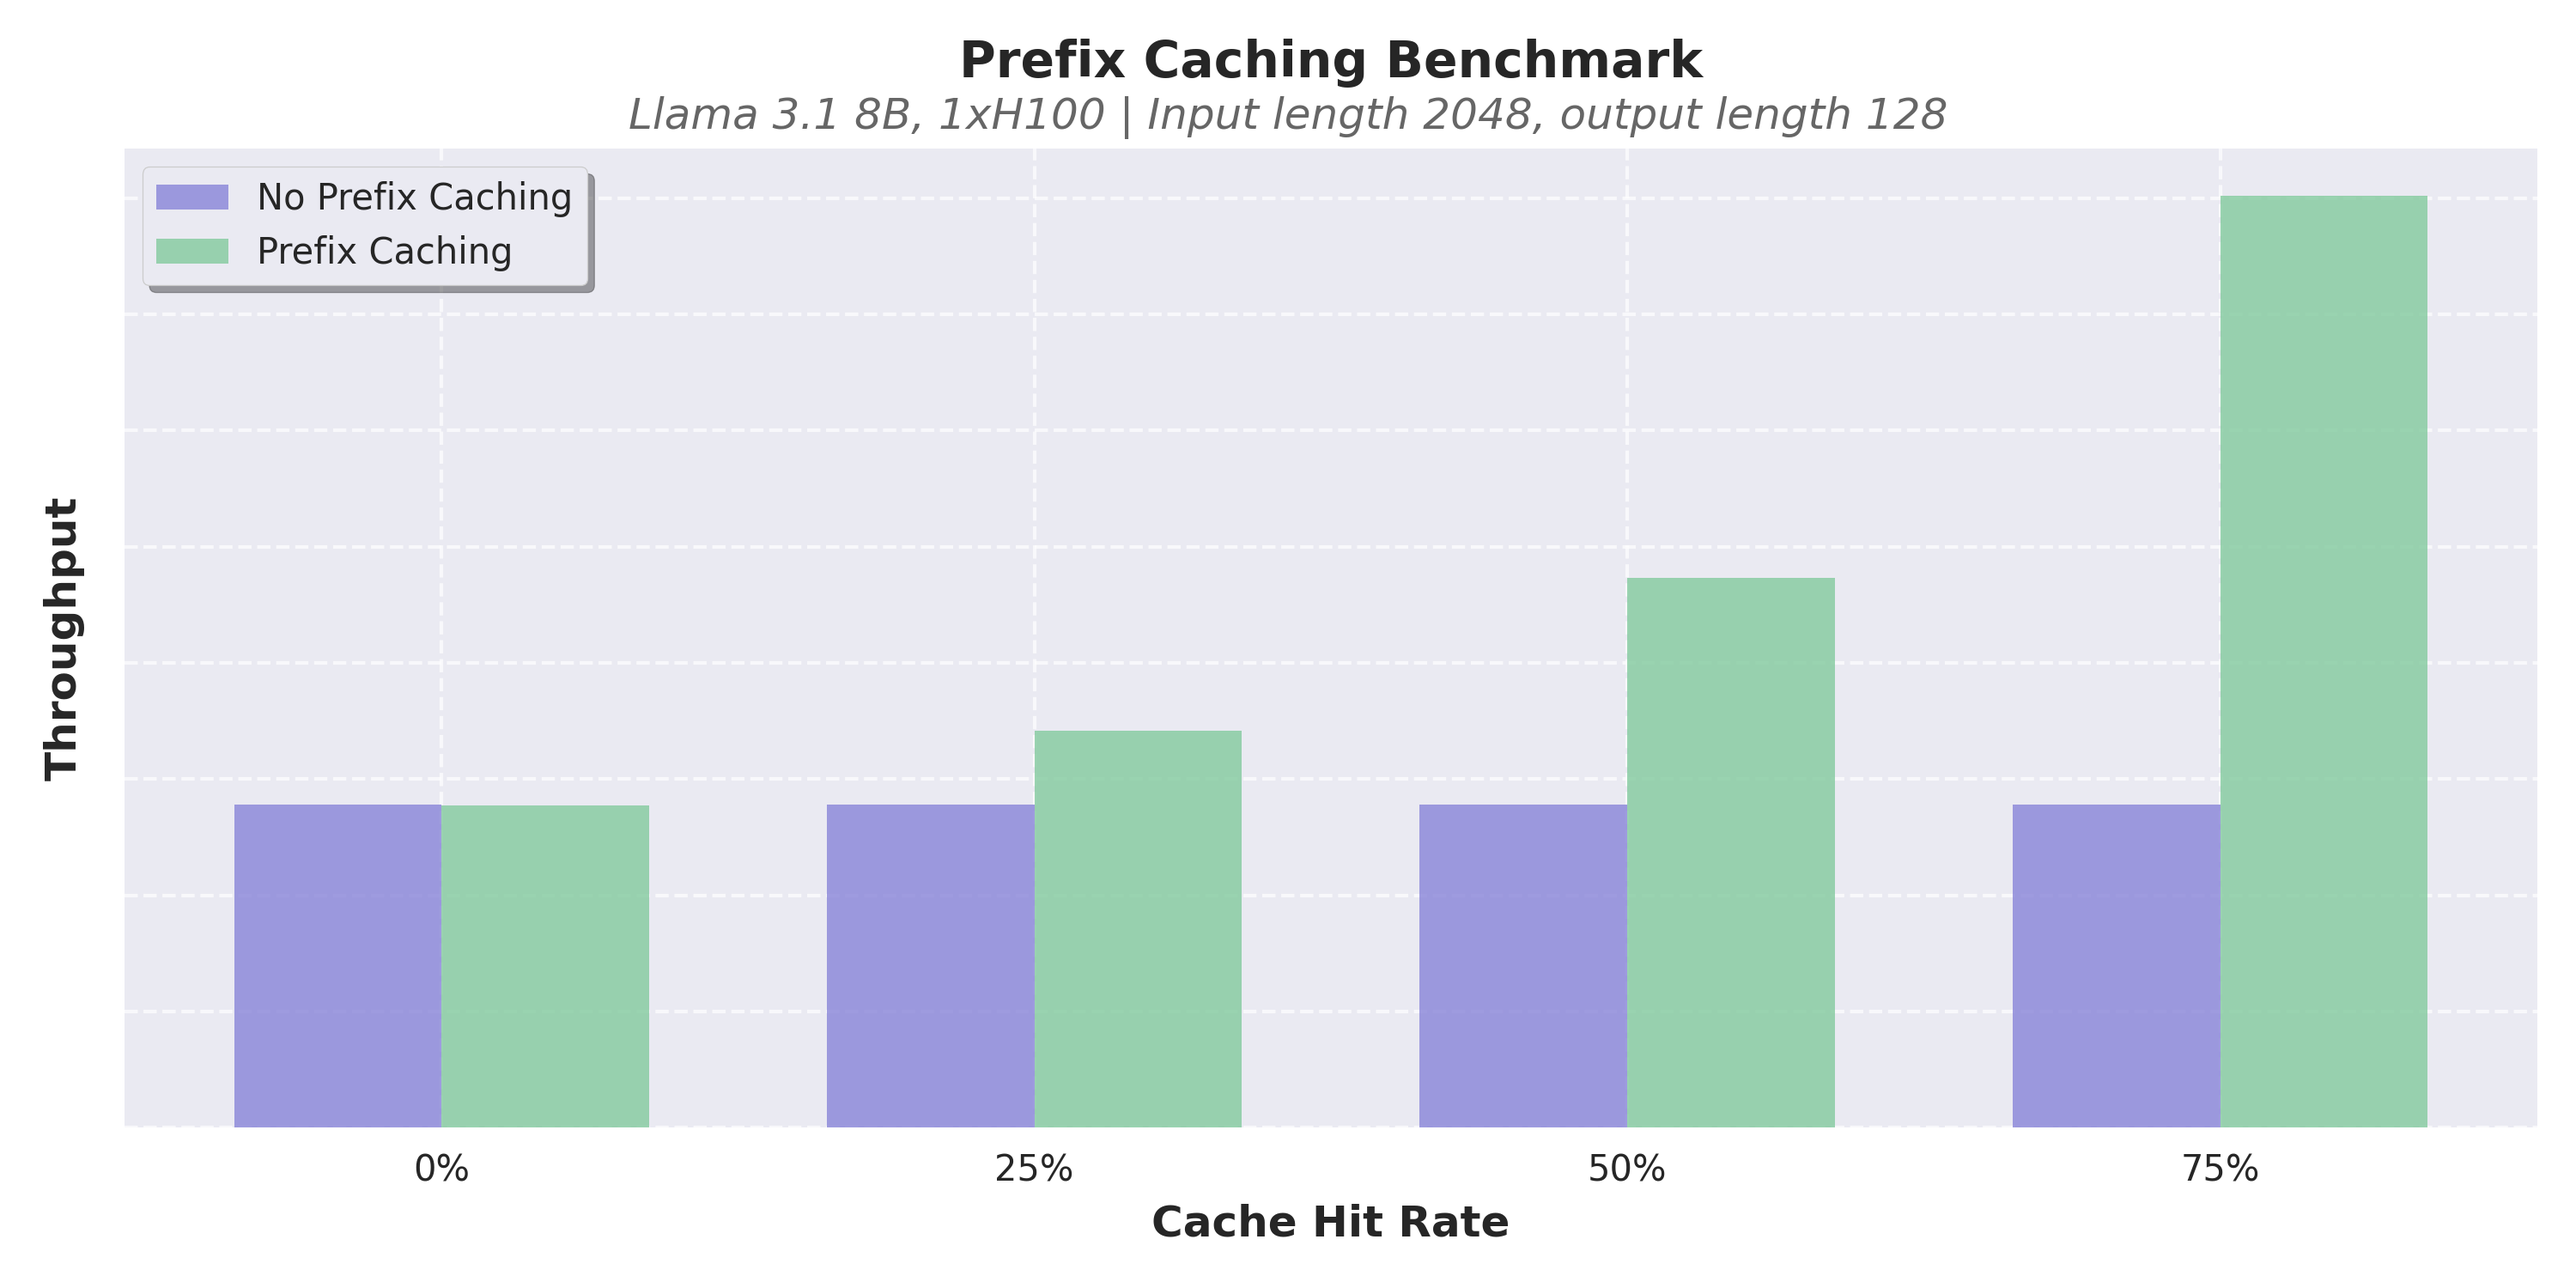
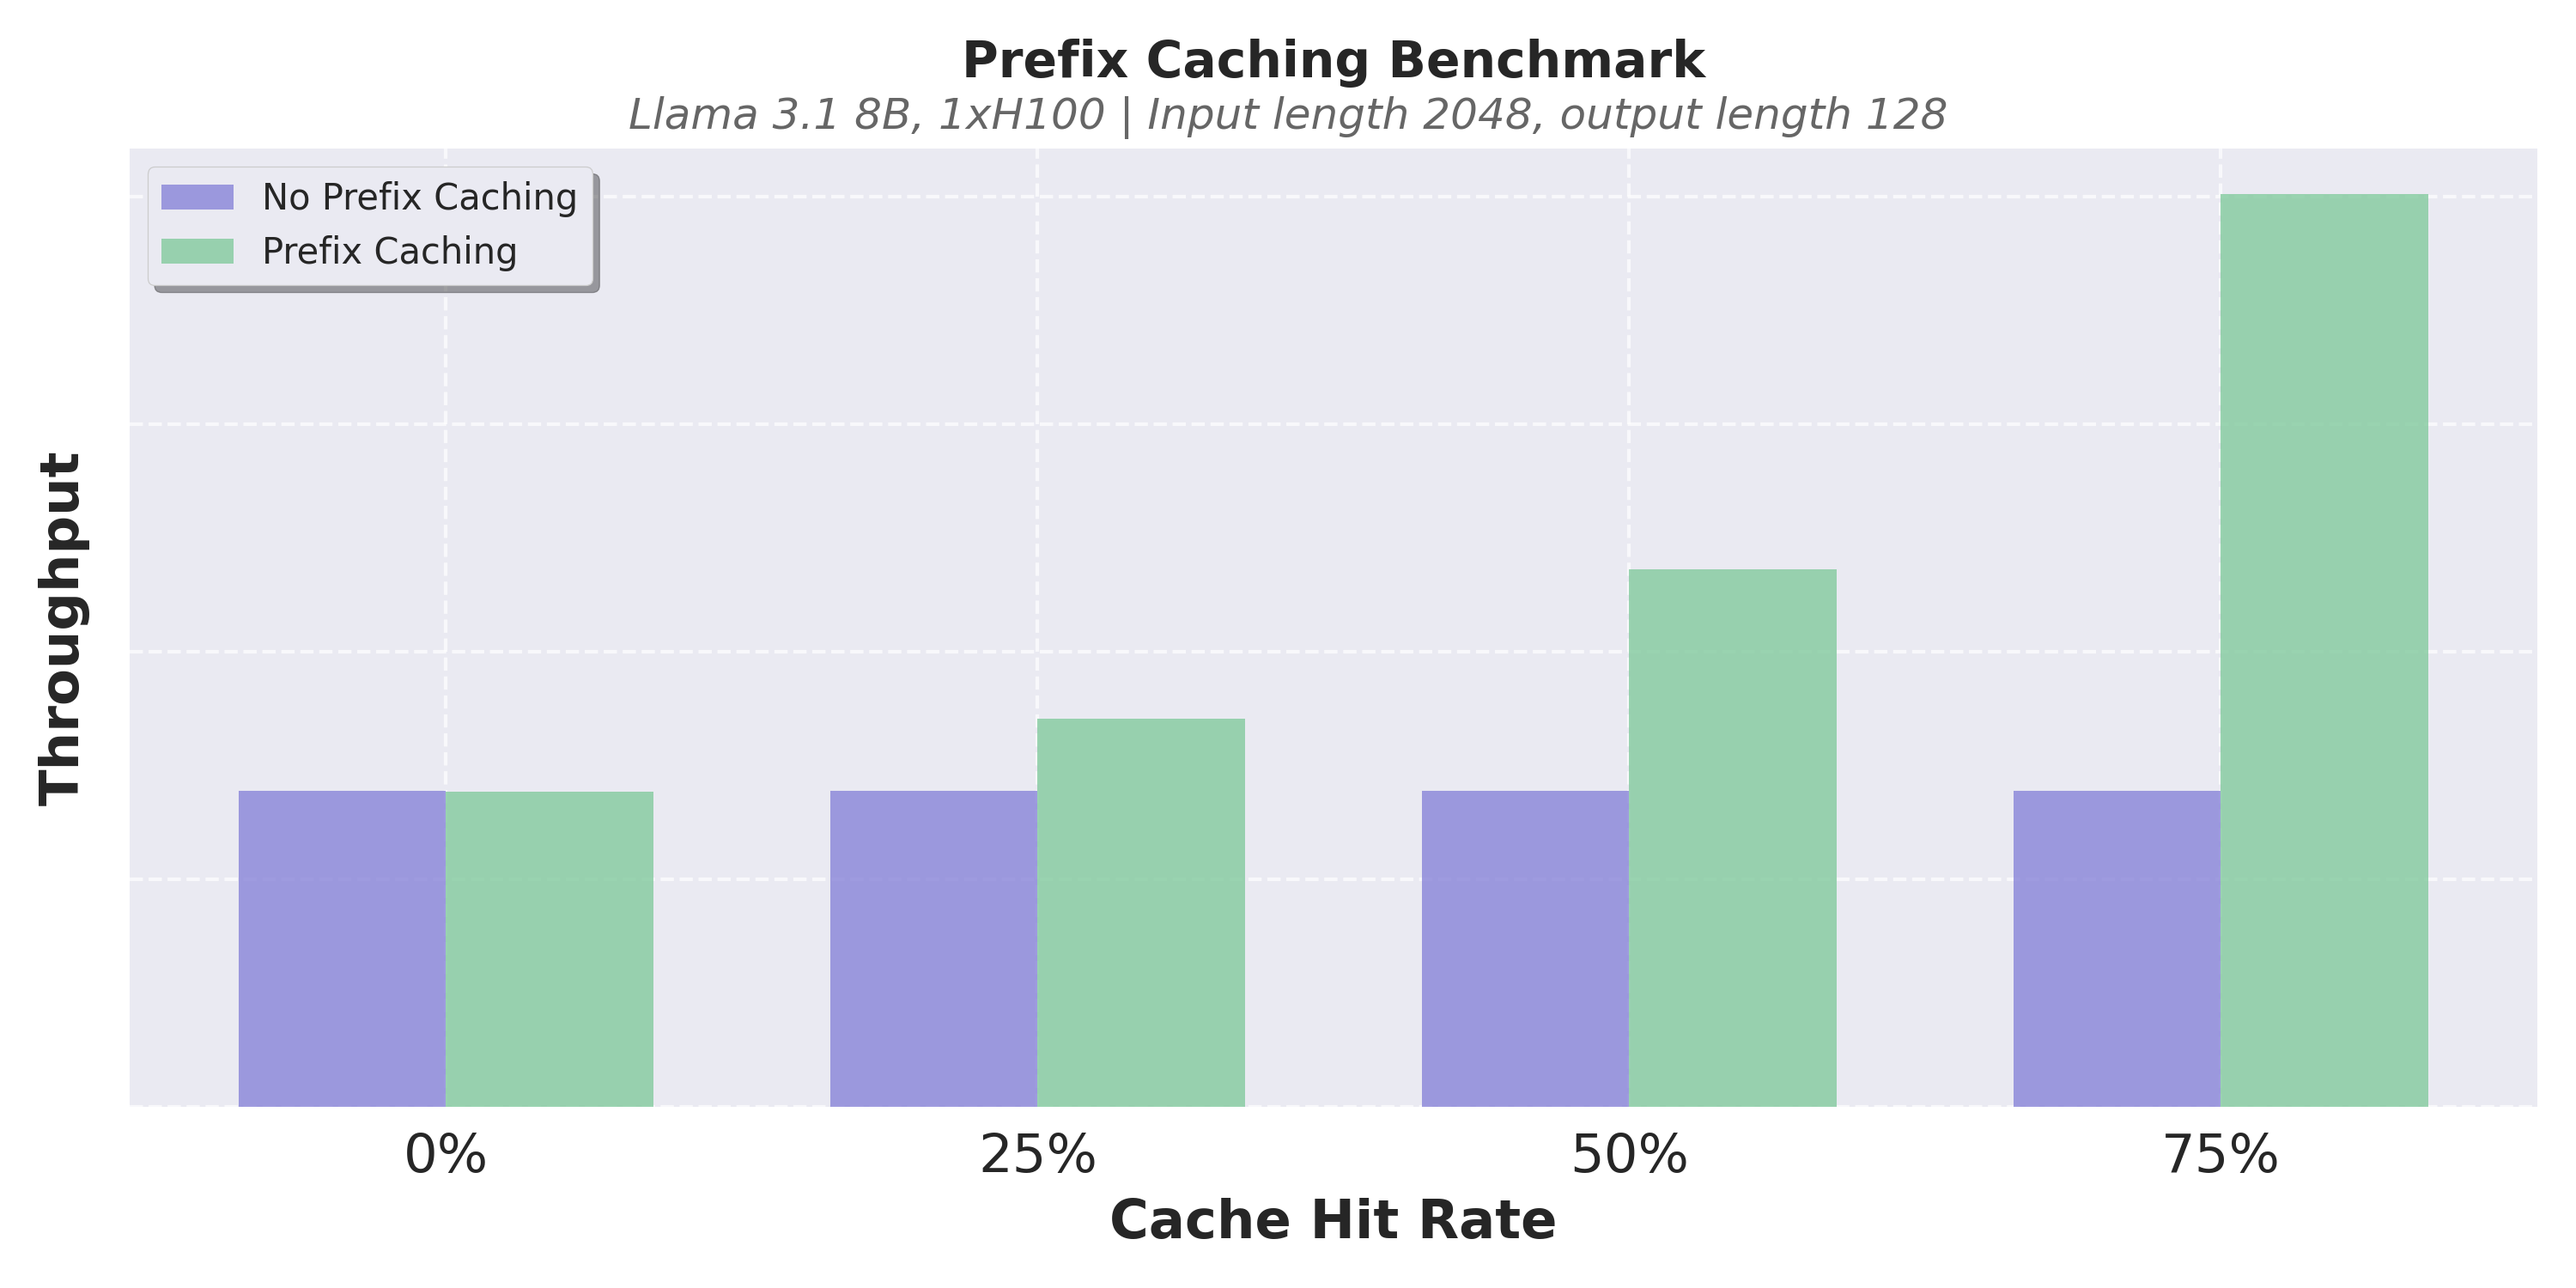
Add Qwen2 fig

diff --git a/_posts/2025-01-26-v1.md b/_posts/2025-01-26-v1.md
@@ -58,14 +58,13 @@ vLLM V1 introduces a simple yet flexible scheduler. It removes the traditional d
 
 vLLM V1, like V0, uses hash-based prefix caching and LRU-based cache eviction. In V0, enabling prefix caching sometimes causes significant CPU overhead, leading to rather decreased performance when the cache hit rate is low. As a result, it is disabled by default. In V1, we optimize the data structure for constant-time cache eviction and carefully minimize Python object creation overhead. This makes V1’s prefix caching introduce near-zero performance degradation, even when the cache hit rate is 0%.
 
-Here are some benchmark results. In our experiments, we observed that V1's perfix caching causes less than 1% decrease in throughput even when the cache hit rate is 0%, while it improves the performance several times when the cache hit rate is high. **Thanks to the near-zero overhead, we now enable prefix caching by default in V1.**
-
 <p align="center">
 <picture>
-<img src="/assets/figures/v1/v1_prefix_caching.png" width="100%">
+<img src="/assets/figures/v1/v1_prefix_caching.png" width="90%">
 </picture>
 </p>
 
+Here are some benchmark results. In our experiments, we observed that V1's perfix caching causes less than 1% decrease in throughput even when the cache hit rate is 0%, while it improves the performance several times when the cache hit rate is high. **Thanks to the near-zero overhead, we now enable prefix caching by default in V1.**
 
 ## 4. Clean Architecture for Tensor-Parallel Inference
 
@@ -113,15 +112,25 @@ The final piece of the puzzle for vLLM V1 was integrating [FlashAttention 3](htt
 
 # Performance
 
-Thanks to the extensive architectural enhancements, vLLM V1 achieves state-of-the-art throughput and latency, delivering up to **x** higher throughput compared to V0 (*without multi-step scheduling*).
+Thanks to the extensive architectural enhancements, vLLM V1 achieves state-of-the-art throughput and latency, delivering up to **1.7x** higher throughput compared to V0 (*without multi-step scheduling*).
 These dramatic performance gains stem from comprehensive CPU overhead reductions across the entire stack.
 The improvements are even more pronounced for vision-language models (VLMs) like Qwen2-VL, thanks to V1's enhanced support for VLMs.
 
-- **Llama 3.1 8B, 1xH100**
+- **Llama 3.1 8B & Llama 3.3 70B**
 
-- **Llama 3.3 70B, 4xH100**
+<p align="center">
+<picture>
+<img src="/assets/figures/v1/v1_llama.png" width="100%">
+</picture>
+</p>
 
 - **Qwen2-VL (VLM), 1xH100**
+
+<p align="center">
+<picture>
+<img src="/assets/figures/v1/v1_qwen2vl.png" width="50%">
+</picture>
+</p>
 
 
 # Limitations & Future Work
